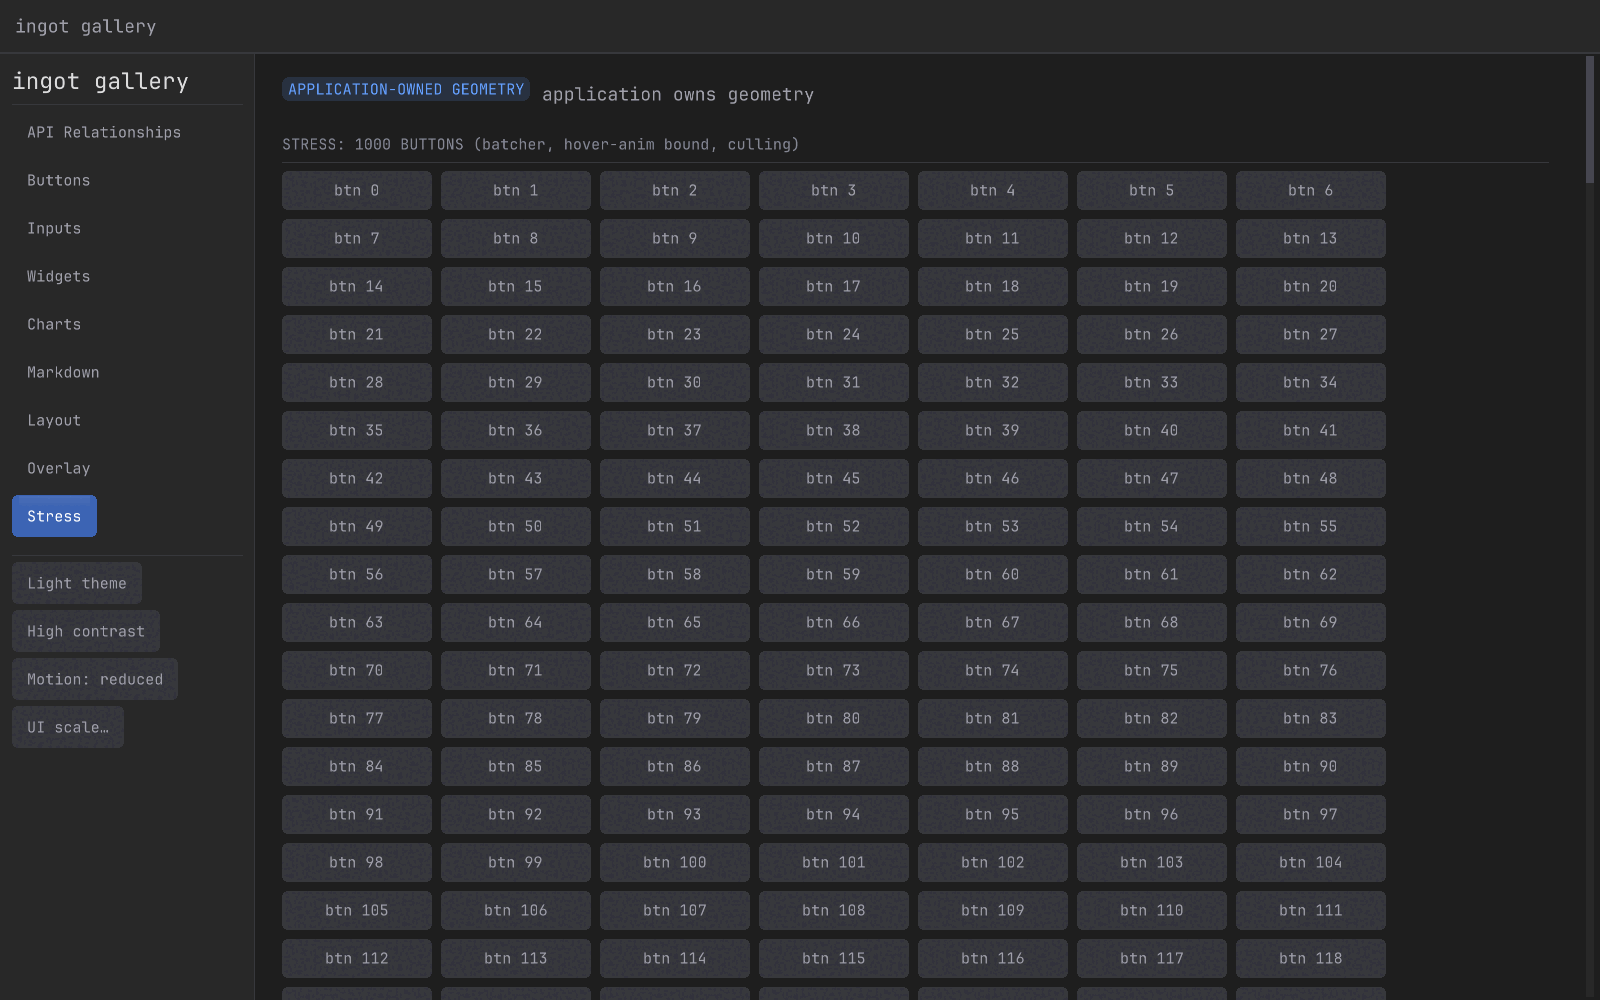
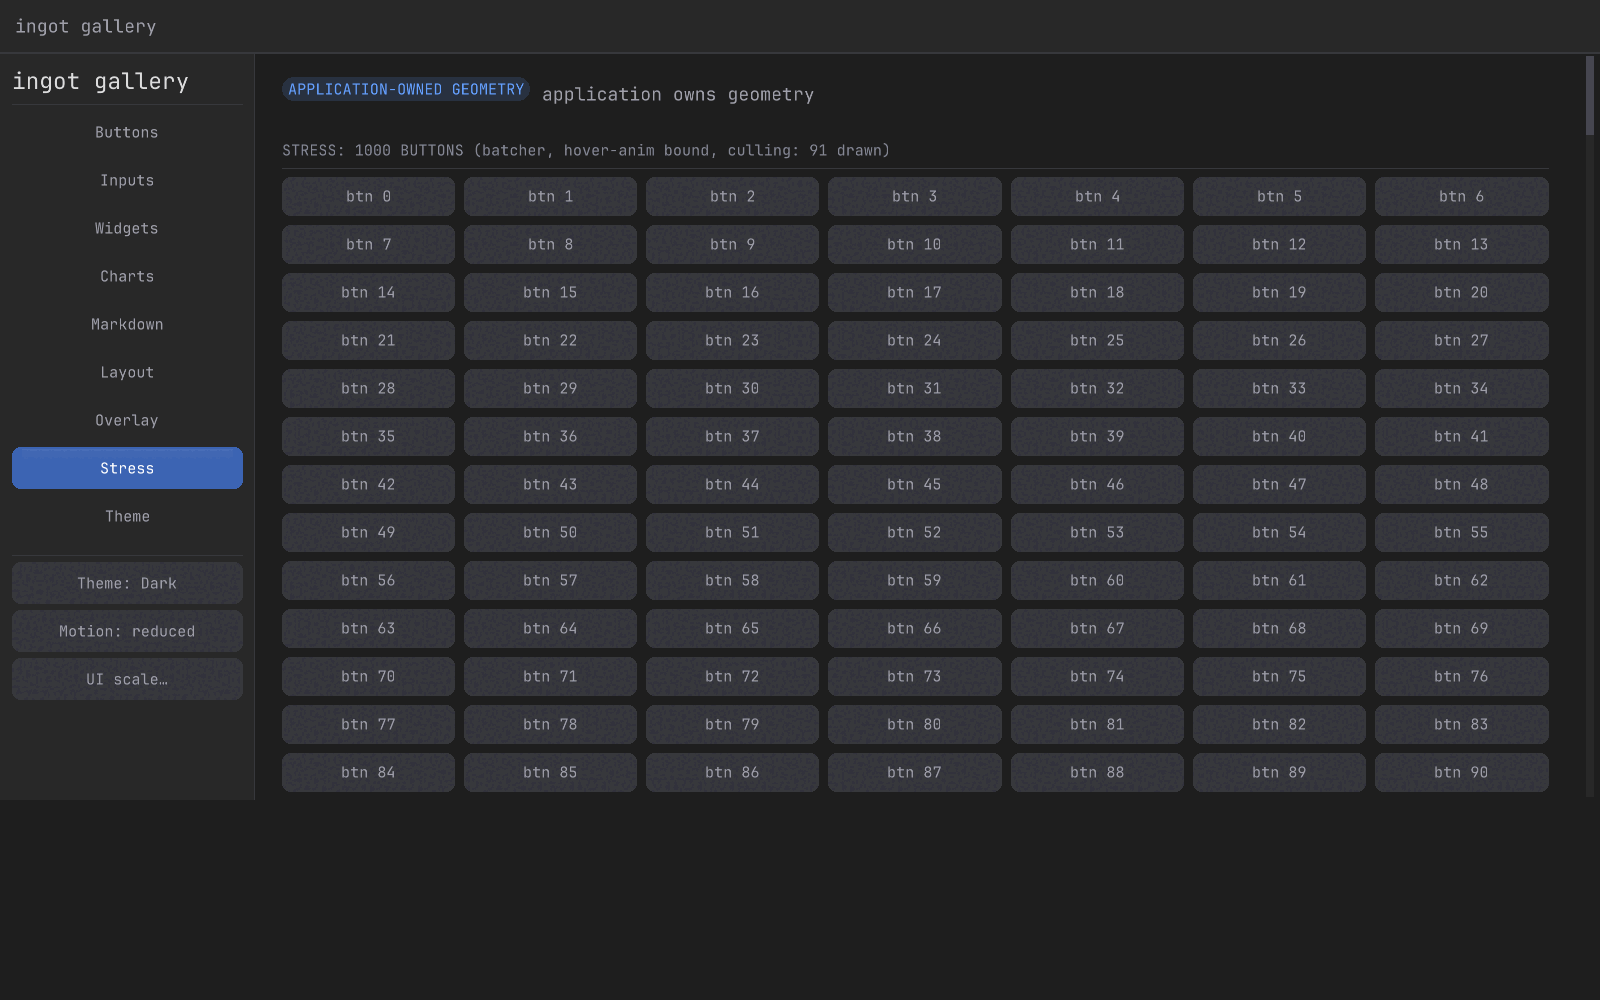
feat: add explicit-geometry canvas and region helpers
Add Canvas, Px, and scoped Region_Open/Region_Close conveniences for explicit surfaces. Migrate the gallery and test driver to the new complete-root API and refresh documentation and media.

diff --git a/docs/api-layers.md b/docs/api-layers.md
@@ -67,6 +67,13 @@ widget tree. A `Custom` render callback receives a borrowed `fit.Surface` for
 same-frame interaction and explicit geometry; the Surface is valid only for that
 callback and must not be retained.
 
+`Canvas` is the root convenience for applications whose whole content uses
+explicit geometry. It declares the synthetic Builder root and a grow-sized
+`Custom` leaf, then lends the callback a same-frame `Surface` and physical root
+rectangle. Use `Px(surface, value)` only for logical design constants; rectangles
+returned by layout and render callbacks are already physical. `Region_Open` and
+`Region_Close` may own one optional identity scope for a bounded region.
+
 For caller-owned scheduling, use the `fit.App` lifecycle explicitly:
 
 ```odin

diff --git a/docs/layout.md b/docs/layout.md
@@ -99,6 +99,12 @@ after resetting the output for the current render.
 userdata, callbacks, state, and output pointers must remain valid until the
 builder is rendered.
 
+`Canvas` is a complete root, not a leaf to add below another container. It is
+equivalent to one synthetic root container plus one grow-sized `Custom` leaf and
+is intended for full-parent explicit geometry. Its callback receives a physical
+rectangle. `Px` converts logical constants once; never pass layout-returned
+physical values through it.
+
 `Scope` composes an explicit string or nonzero integer component key around one
 immediately invoked procedure. `Id` derives a current-frame `Widget_Id` from the
 active scope. Neither API stores widget behavior; control values and interaction

diff --git a/CHANGELOG.md b/CHANGELOG.md
@@ -17,6 +17,11 @@ See the [versioning policy](docs/compatibility.md#versioning-policy).
 
 ### Added
 
+- `fit.Canvas`: a bounded full-parent explicit-geometry root that removes the
+  synthetic `Column` plus `Custom` measure/render bridge from applications.
+- `fit.Px`, `fit.Region_Open`, `fit.Region_Close`, and string/integer-key region
+  control overloads reduce explicit-surface scaling, scope, and identity
+  ceremony while preserving physical `Rect` semantics and caller-owned state.
 - `fit.Row_With`, `Column_With`, `Flow_With`, `Grid_With`, and
   `Attachment_With`: immediately invoked, source-located container helpers that
   verify callback balance without retaining callbacks or component state.
